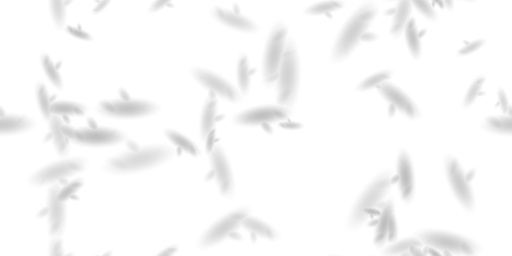
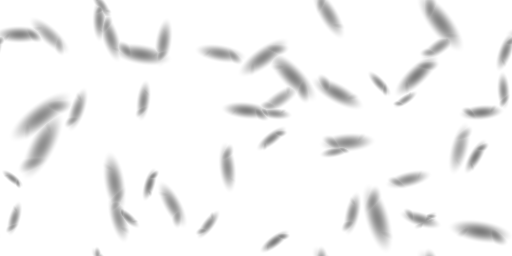
increase gobo effect

diff --git a/src/components/house/rooms/Shell.tsx b/src/components/house/rooms/Shell.tsx
@@ -45,8 +45,6 @@ const goboUniforms = {
   uGoboTime: { value: 0 },
   uGoboScale: { value: new Vector2(BAY, BAY * 0.5) },
   uGoboStrength: { value: 1 },
-  uFacadeBottom: { value: FACADE_BOTTOM },
-  uFacadeTop: { value: FACADE_TOP },
 };
 
 const GOBO_VARYING = /* glsl */ `
@@ -68,8 +66,6 @@ uniform sampler2D uNoiseMap;
 uniform float uGoboTime;
 uniform vec2 uGoboScale;
 uniform float uGoboStrength;
-uniform float uFacadeBottom;
-uniform float uFacadeTop;
 
 vec3 applyGobo(vec3 color) {
   vec2 broad = texture2D(uNoiseMap, vGoboWorld.xy * 0.035 + vec2(uGoboTime * 0.012, uGoboTime * 0.004)).rg;
@@ -77,10 +73,8 @@ vec3 applyGobo(vec3 color) {
   vec2 goboUv = vGoboWorld.xy / uGoboScale;
   goboUv += (broad - 0.5) * 0.04 + (fine - 0.5) * 0.012;
   float raw = clamp(texture2D(uGoboMap, goboUv).r, 0.0, 1.0);
-  float yNorm = clamp((vGoboWorld.y - uFacadeBottom) / (uFacadeTop - uFacadeBottom), 0.0, 1.0);
-  float band = smoothstep(0.0, 0.08, yNorm) * smoothstep(1.0, 0.92, yNorm);
-  vec3 warmed = mix(color * vec3(1.04, 0.97, 0.92), color, band);
-  return warmed * mix(1.0, raw, uGoboStrength);
+  vec3 sunlit = color * vec3(1.16, 1.08, 0.96);
+  return sunlit * mix(1.0, raw, uGoboStrength);
 }
 #endif
 `;
@@ -149,7 +143,7 @@ function getNoiseMap() {
 }
 
 function applyFacadeGobo(material: MeshBasicMaterial | MeshStandardMaterial, disabled: boolean) {
-  material.customProgramCacheKey = () => (disabled ? "facade-gobo-off" : "facade-gobo-png");
+  material.customProgramCacheKey = () => (disabled ? "facade-gobo-off" : "facade-gobo-sunlit");
   material.onBeforeCompile = (shader) => {
     Object.assign(shader.uniforms, goboUniforms);
     const define = disabled ? "#define DISABLE_GOBO\n" : "";
